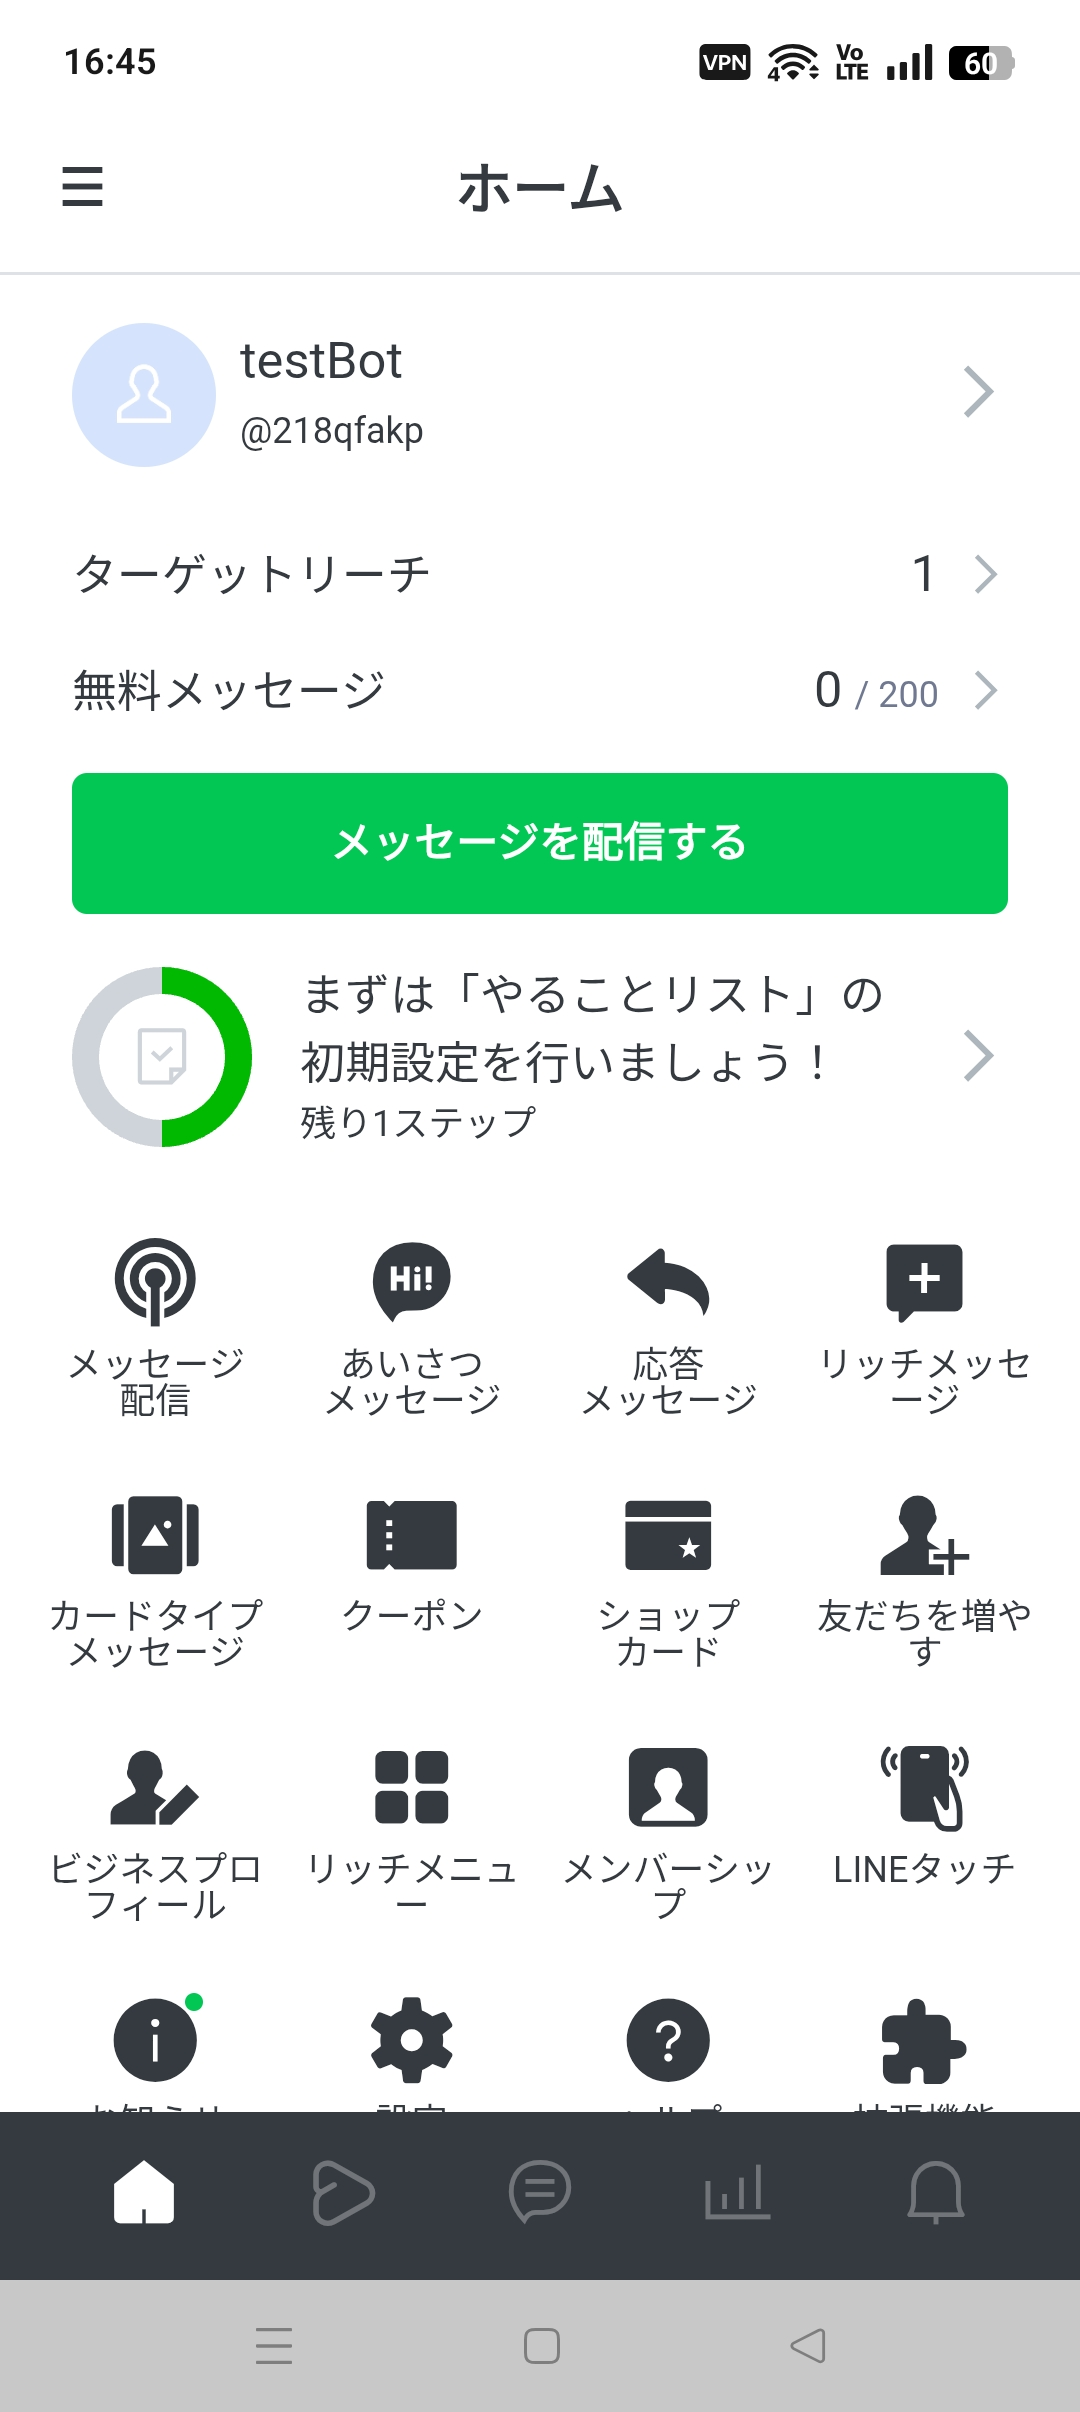
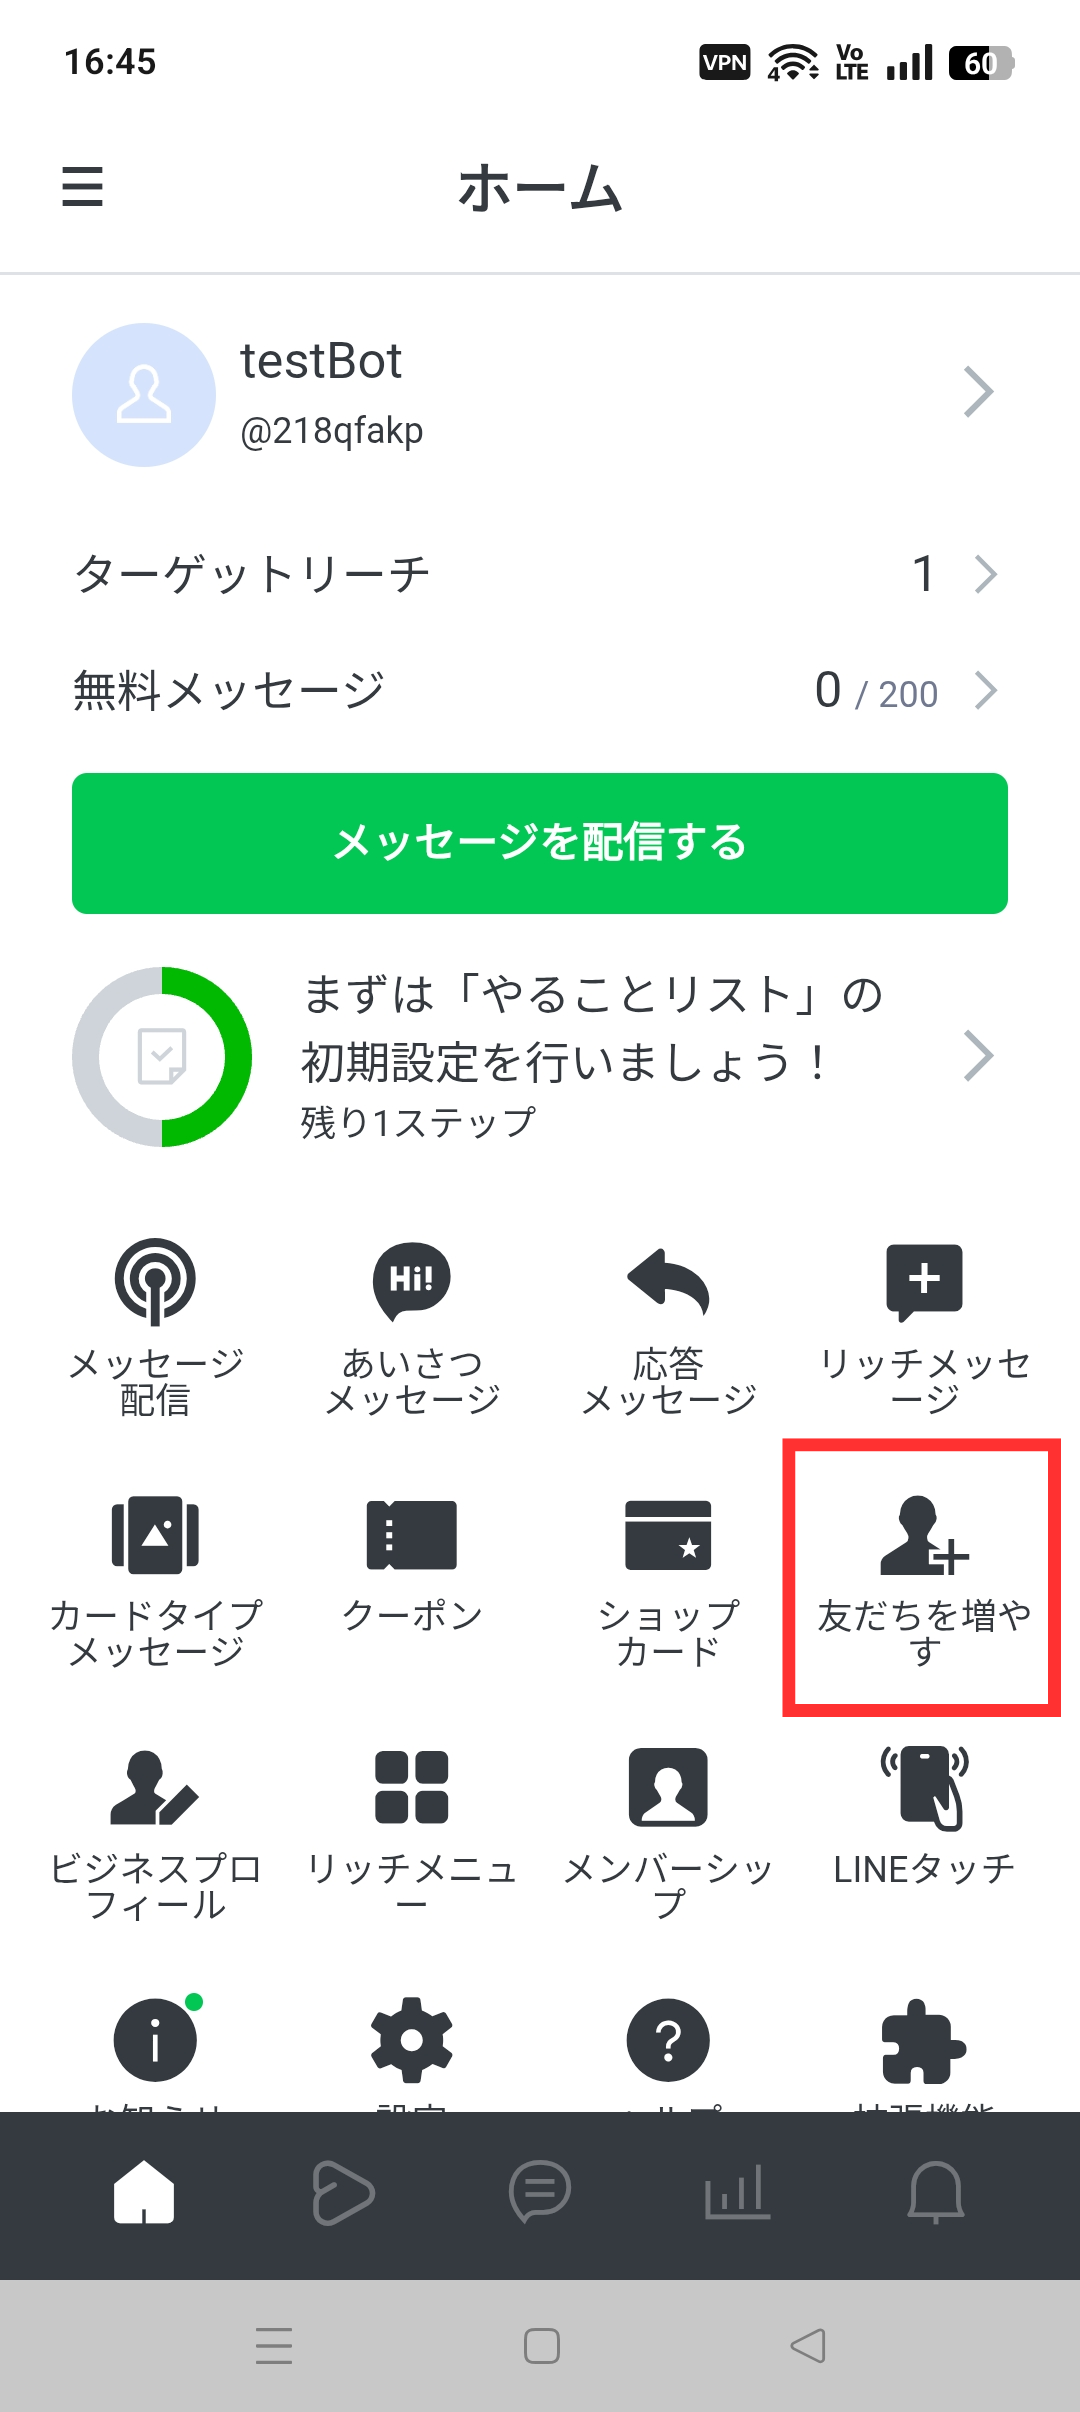
fix(line-guide): ship updated official app screenshots, bump ?v= cache buster
- Commit LINE official guide PNGs that were only modified locally (never reached deploy).
- Increment LINE_GUIDE_SCREENSHOT_CACHE so browsers skip stale ?v=3 responses.
- Set short Cache-Control for line guide image paths to reduce CDN stickiness.

Made-with: Cursor

Changed region(s): [[0.7028, 0.5908, 1.0, 0.7152]]

diff --git a/next.config.ts b/next.config.ts
@@ -43,6 +43,19 @@ function legacyHostRedirects(): Array<{
 }
 
 const nextConfig: NextConfig = {
+  /** LINE 手順の挿絵は同名差し替えが多いため、CDN の長期キャッシュを避ける */
+  async headers() {
+    return [
+      {
+        source: "/images/line-official-app-guide/:path*",
+        headers: [{ key: "Cache-Control", value: "public, max-age=0, must-revalidate" }],
+      },
+      {
+        source: "/images/line-personal-friend-url-guide/:path*",
+        headers: [{ key: "Cache-Control", value: "public, max-age=0, must-revalidate" }],
+      },
+    ];
+  },
   async redirects() {
     return [
       ...legacyHostRedirects(),

diff --git a/src/components/dashboard/LineConnectClient.tsx b/src/components/dashboard/LineConnectClient.tsx
@@ -48,7 +48,7 @@ const LINE_PERSONAL_FRIEND_URL_IMAGES = {
  * public の PNG を同じファイル名で差し替えても、ブラウザ・CDN が古い内容を返し続けることがある。
  * 挿絵を更新したらこの数字だけ +1 してデプロイすると確実に新画像が読み込まれる。
  */
-const LINE_GUIDE_SCREENSHOT_CACHE = '3'
+const LINE_GUIDE_SCREENSHOT_CACHE = '4'
 
 function guideScreenshotSrc(path: string): string {
     const base = path.split('?')[0]
